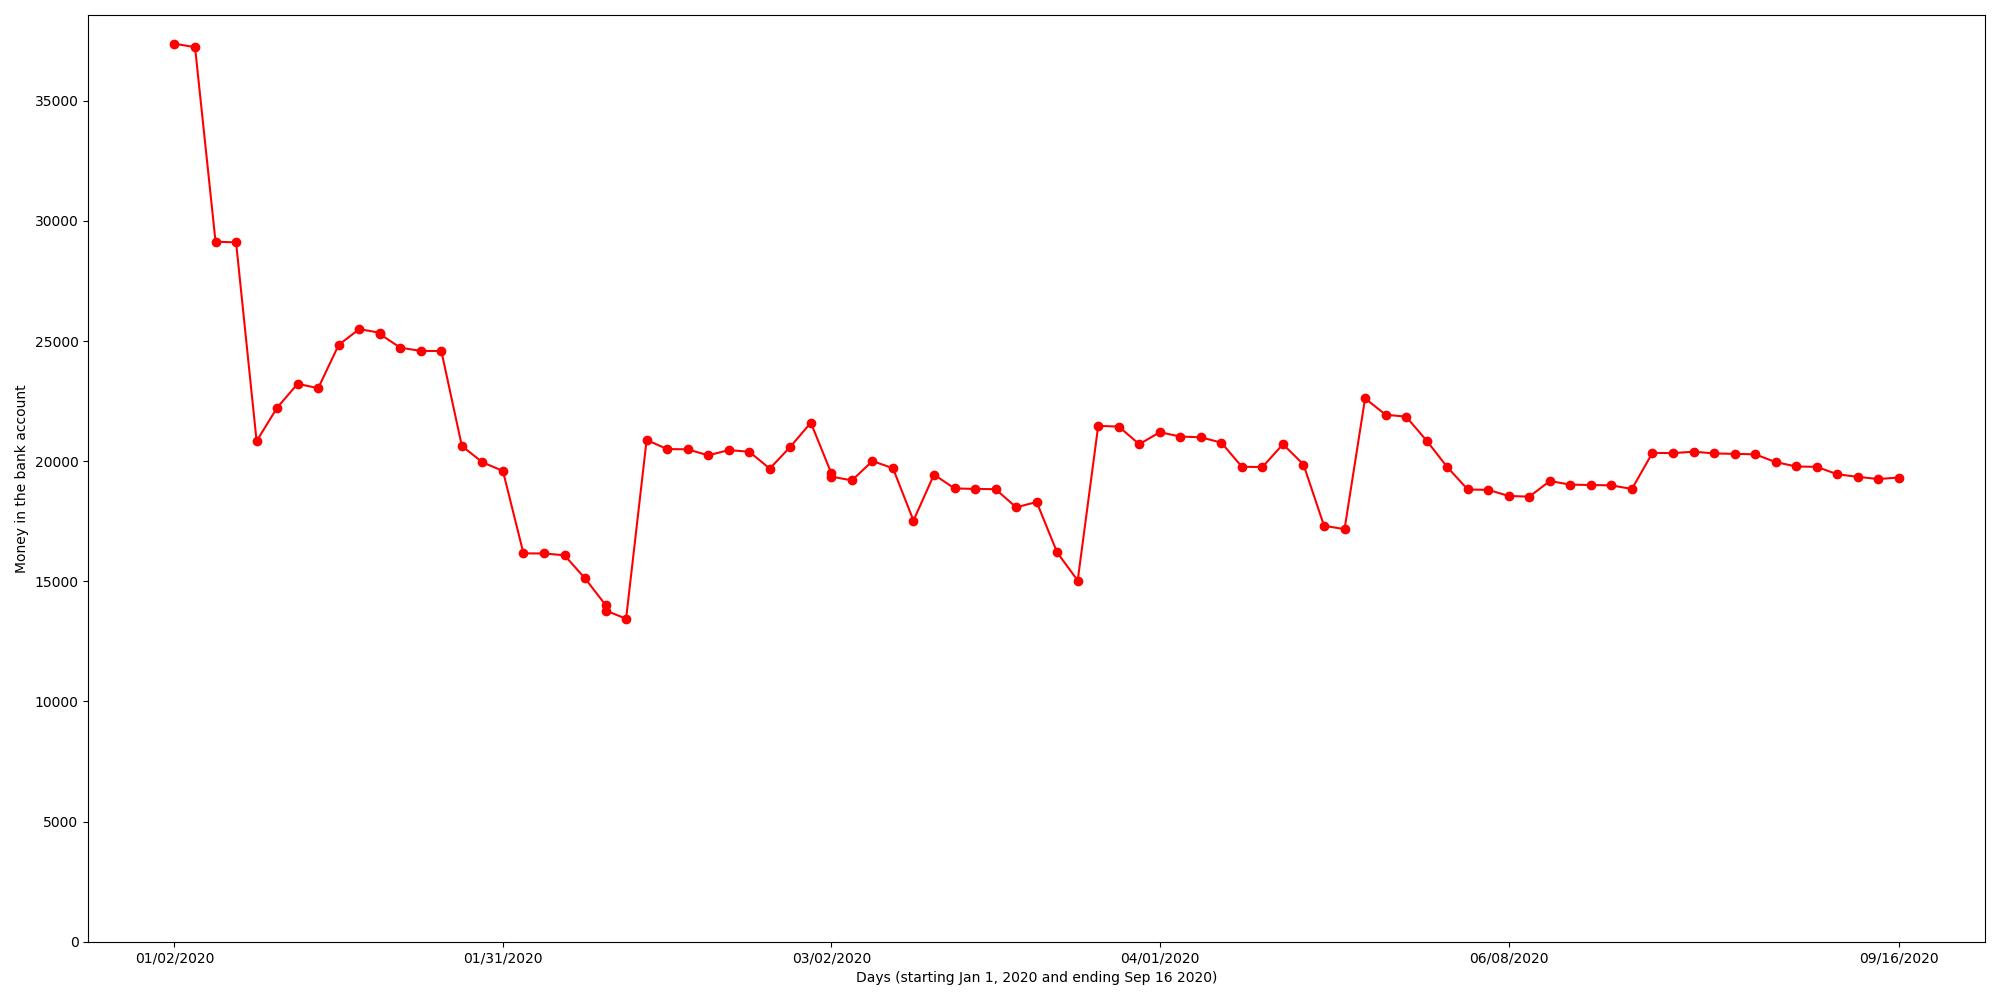
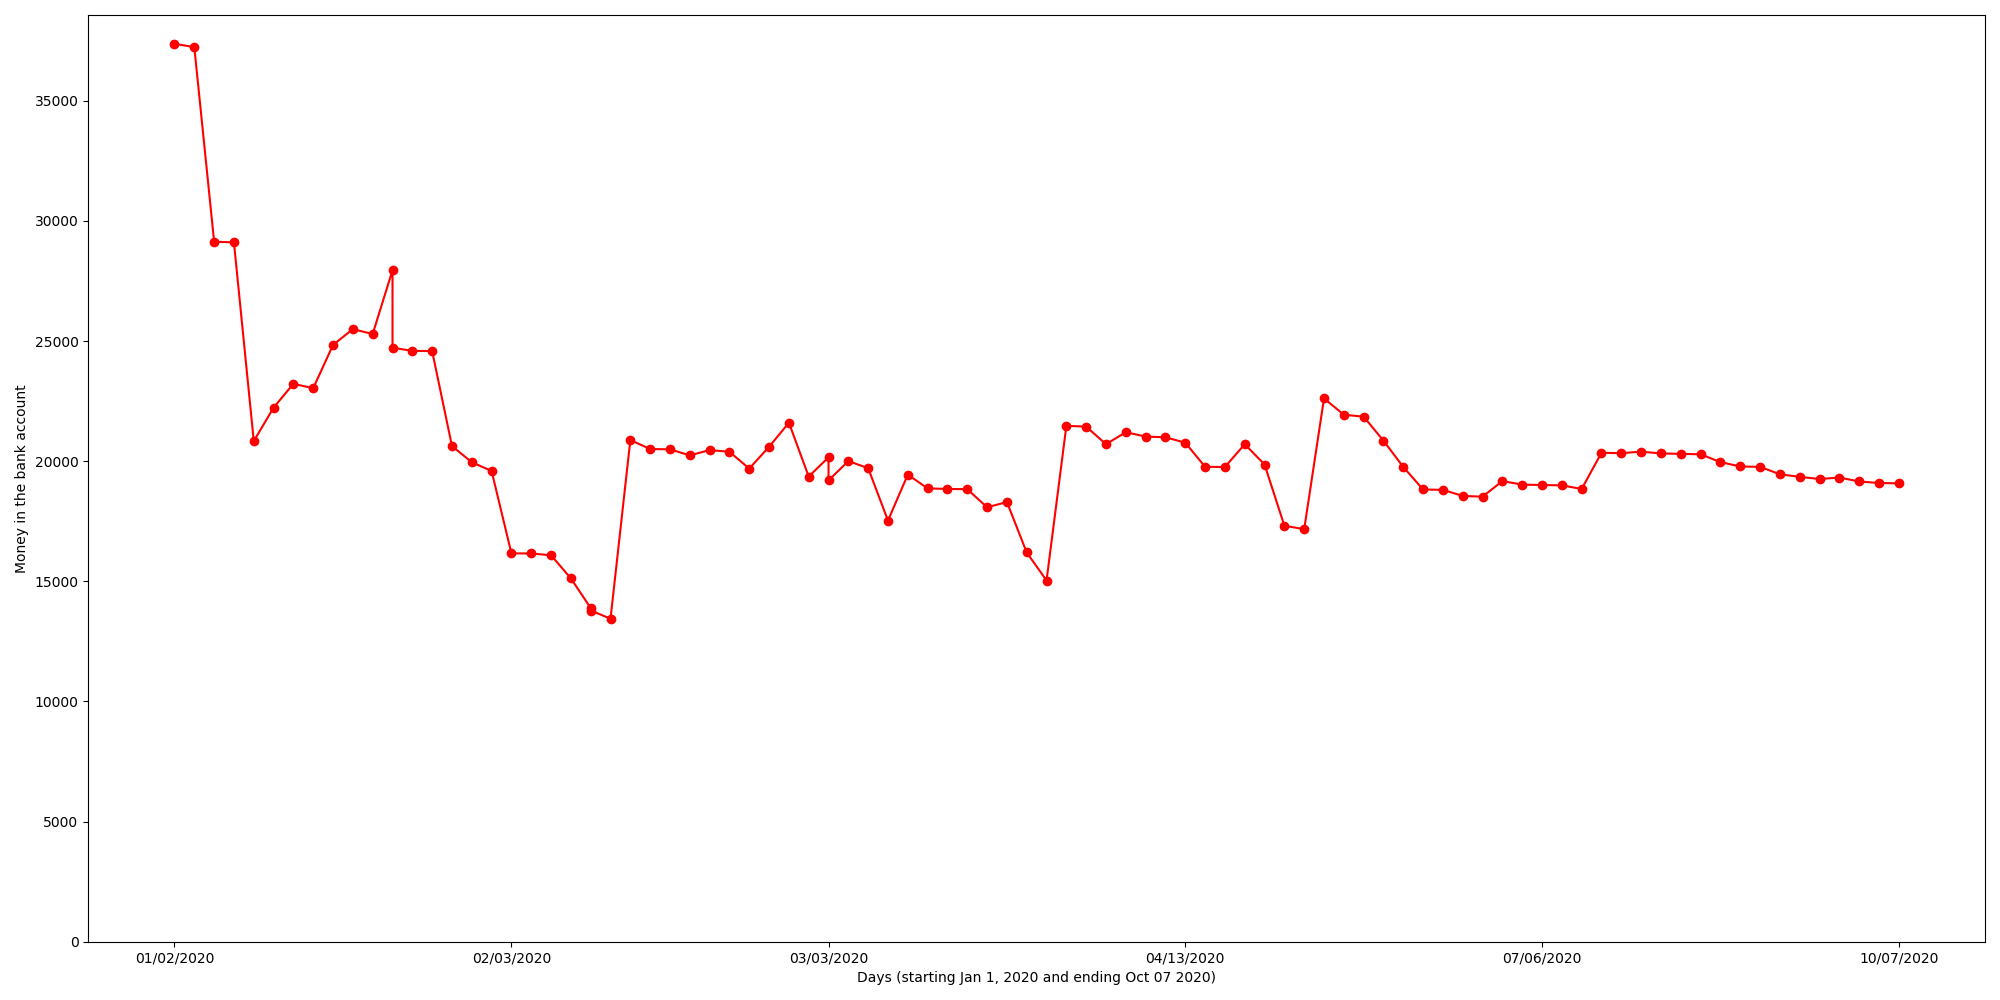
Automated message

diff --git a/datapage.html b/datapage.html
@@ -59,6 +59,18 @@ li a {
 	<th> Amount </th>
 </tr>
 <tr>
+	<th> 10/07/2020 </th>
+	<th> 19076.67 </th>
+</tr>
+<tr>
+	<th> 10/06/2020 </th>
+	<th> 19091.67 </th>
+</tr>
+<tr>
+	<th> 10/05/2020 </th>
+	<th> 19153.99 </th>
+</tr>
+<tr>
 	<th> 09/16/2020 </th>
 	<th> 19318.99 </th>
 </tr>
@@ -267,12 +279,12 @@ li a {
 	<th> 19198.75 </th>
 </tr>
 <tr>
-	<th> 03/02/2020 </th>
-	<th> 19358.14 </th>
+	<th> 03/03/2020 </th>
+	<th> 20161.00 </th>
 </tr>
 <tr>
 	<th> 03/02/2020 </th>
-	<th> 19492.54 </th>
+	<th> 19358.14 </th>
 </tr>
 <tr>
 	<th> 02/28/2020 </th>
@@ -320,7 +332,7 @@ li a {
 </tr>
 <tr>
 	<th> 02/10/2020 </th>
-	<th> 14015.40 </th>
+	<th> 13887.62 </th>
 </tr>
 <tr>
 	<th> 02/07/2020 </th>
@@ -363,12 +375,12 @@ li a {
 	<th> 24722.41 </th>
 </tr>
 <tr>
-	<th> 01/21/2020 </th>
-	<th> 25292.01 </th>
+	<th> 01/23/2020 </th>
+	<th> 27945.16 </th>
 </tr>
 <tr>
 	<th> 01/21/2020 </th>
-	<th> 25346.01 </th>
+	<th> 25292.01 </th>
 </tr>
 <tr>
 	<th> 01/17/2020 </th>

diff --git a/index.html b/index.html
@@ -43,8 +43,8 @@ li a {
 </ul>
 <h1 style = "text-align:center;"> International Relations Organization at UVA's Data Webpage</h1>
 <h2 style = "background-color:tomato; text-align:center;"> IRO at UVA is not officially affiliated with the university</h2>
-<h2 style = "text-align:center;"> Last Updated 10-04-2020</h2>
-<h2 style = "text-align:center;"> <strong> The IRO bank account has $19,318.99 as of now </strong></h2>
+<h2 style = "text-align:center;"> Last Updated 10-15-2020</h2>
+<h2 style = "text-align:center;"> <strong> The IRO bank account has $19,076.67 as of now </strong></h2>
 <h2 style = "text-align:center";> Since Jan 02, 2020:</h2>
 <ul>
 	<li><h2> The minimal amount in the account was $13,444.5 on Feb 11, 2020 </h2></li>

diff --git a/charts.html b/charts.html
@@ -42,7 +42,7 @@ li a {
 	<li class = "bar"><a href=https://www.iroatuva.org/about>About</a></li>
 </ul>
 <h1 style = "text-align:center;"> Some Extra Graphs </h1>
-<h2 style = "text-align:center;"> Last Updated 10-04-2020</h2>
+<h2 style = "text-align:center;"> Last Updated 10-15-2020</h2>
 <img src = "Bank_Account_Data_IRO_1_1_2020.png" alt = "Another graph of the bank account">
 <img src = "Bank_Account_Data_IRO_6_1_2020.png" alt = "Another graph of the bank account">
 </body>
